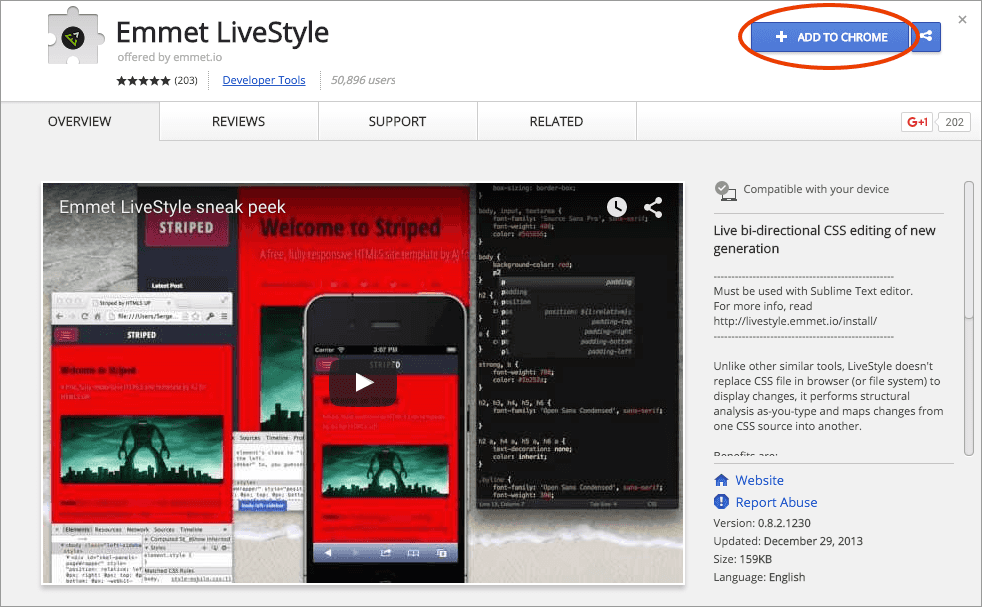
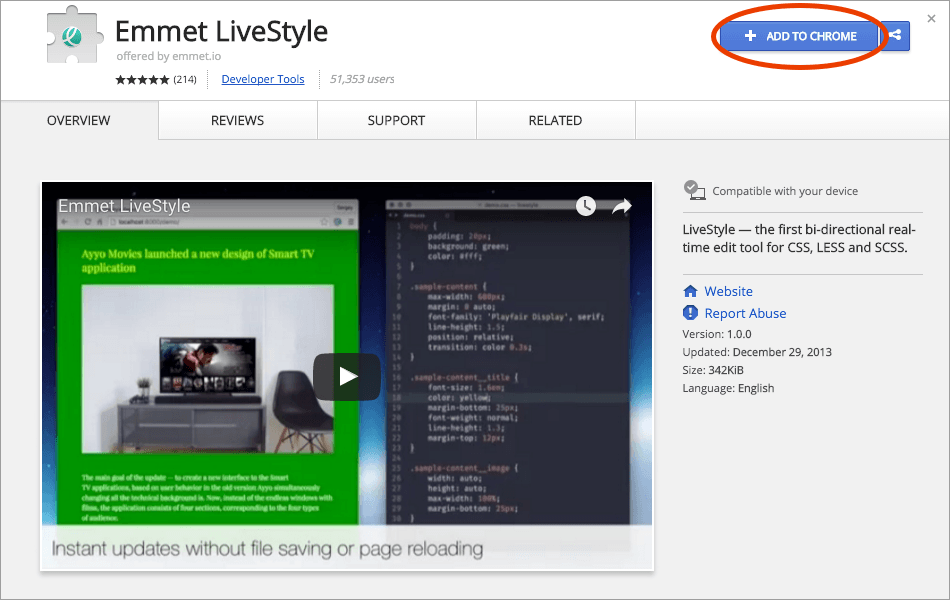
Ready for release

diff --git a/src/www/css/main.css b/src/www/css/main.css
@@ -6,6 +6,7 @@
 @import url(./assets/sample-content.css);
 @import url(./assets/code.css);
 @import url(./assets/quick-tour-popup.css);
+@import url(./assets/vendor/likely.css);
 
 body {
 	padding: 0;
@@ -431,6 +432,30 @@ a:link:hover {
 
 .layout-content_download {
 	padding: 100px 0;
+}
+
+.likely {
+	text-align: center;
+	display: block;
+	margin: 50px 0 0;
+}
+
+.likely .likely__widget {
+	border: 1px solid #e7e7e9;
+	background-color: transparent;
+	padding: 2px;
+}
+
+.likely .likely__widget_twitter:hover {
+	background-color: rgba(191,237,250,.8);
+}
+
+.likely .likely__widget_facebook:hover {
+	background-color: rgba(207,212,229,.8);
+}
+
+.likely .likely__widget_gplus:hover {
+	background-color: rgba(246,207,207,.8);
 }
 
 .page-footer {

diff --git a/src/www/js/main-page.js b/src/www/js/main-page.js
@@ -8,6 +8,7 @@ import slide3 from './lib/main-page-slides/remote-view';
 import ViewportPlaybackTrigger from './lib/viewport-playback-trigger';
 import qtPopup from './lib/quick-tour-popup';
 import {toArray} from './lib/utils';
+import likely from './lib/vendor/likely';
 
 setupSlide('.layout-content_bidirectional .layout-assets', slide1);
 setupSlide('.layout-content_one-heart .layout-assets', slide2);

diff --git a/src/www/css/docs.css b/src/www/css/docs.css
@@ -5,7 +5,7 @@ body {
 	margin: 0;
 	font-family: 'Helvetica Neue', Helvetica, Arial, sans-serif;
     font-size: 16px;
-    font-weight: 200;
+    font-weight: 300;
     line-height: 1.72222;
     color: #34495e;
     background-color: #fff;

diff --git a/src/www/docs/index.html.md b/src/www/docs/index.html.md
@@ -6,6 +6,10 @@ title: Getting started
 
 LiveStyle is a tool for live CSS editing, similar to popular [LiveReload](http://livereload.com), [CodeKit](https://incident57.com/codekit/) etc. The idea behind those tools is simple: you edit CSS file in your editor, save it and see how web-page in your browser that contains this stylesheet is automatically refreshed, giving you a visual feedback of changes you just made.
 
+<div style="position: relative;width: 100%;padding-bottom: 63%;margin: 20px 0;">
+    <iframe src="https://www.youtube.com/embed/Yxas3rv_WK0?rel=0" frameborder="0" allowfullscreen style="width:100%;height:100%;position:absolute"></iframe>
+</div>
+
 Almost all such live edit tools works in pretty much the same way: they are watching for file updates in given folder, do some additional processing (for example, convert LESS to CSS) and finally update a web-page. Which means you have to *save* your source file and *wait* for a few seconds just to see how a single change affects page.
 
 LiveStyle introduces a *real-time* editing experience: it updates web-page immediately, as-you-type in text editor. Without file saving or page reloading. And this is the first tool able to bring updates from browser DevTools back into source code *the right way*.
@@ -34,7 +38,7 @@ If you experience issues with downloading and running LiveStyle app, you can try
 
 ### Google Chrome plugin
 
-1. In Chrome, go to [LiveStyle WebStore page](https://chrome.google.com/webstore/detail/livestyle-alpha/obipchajaiohjoohongibhgbfgchblei).
+1. In Chrome, go to [LiveStyle WebStore page](https://chrome.google.com/webstore/detail/emmet-livestyle/diebikgmpmeppiilkaijjbdgciafajmg).
 2. Click on **Add to Chrome** button in the upper right corner:
 
 ![image](img/chrome.png)
